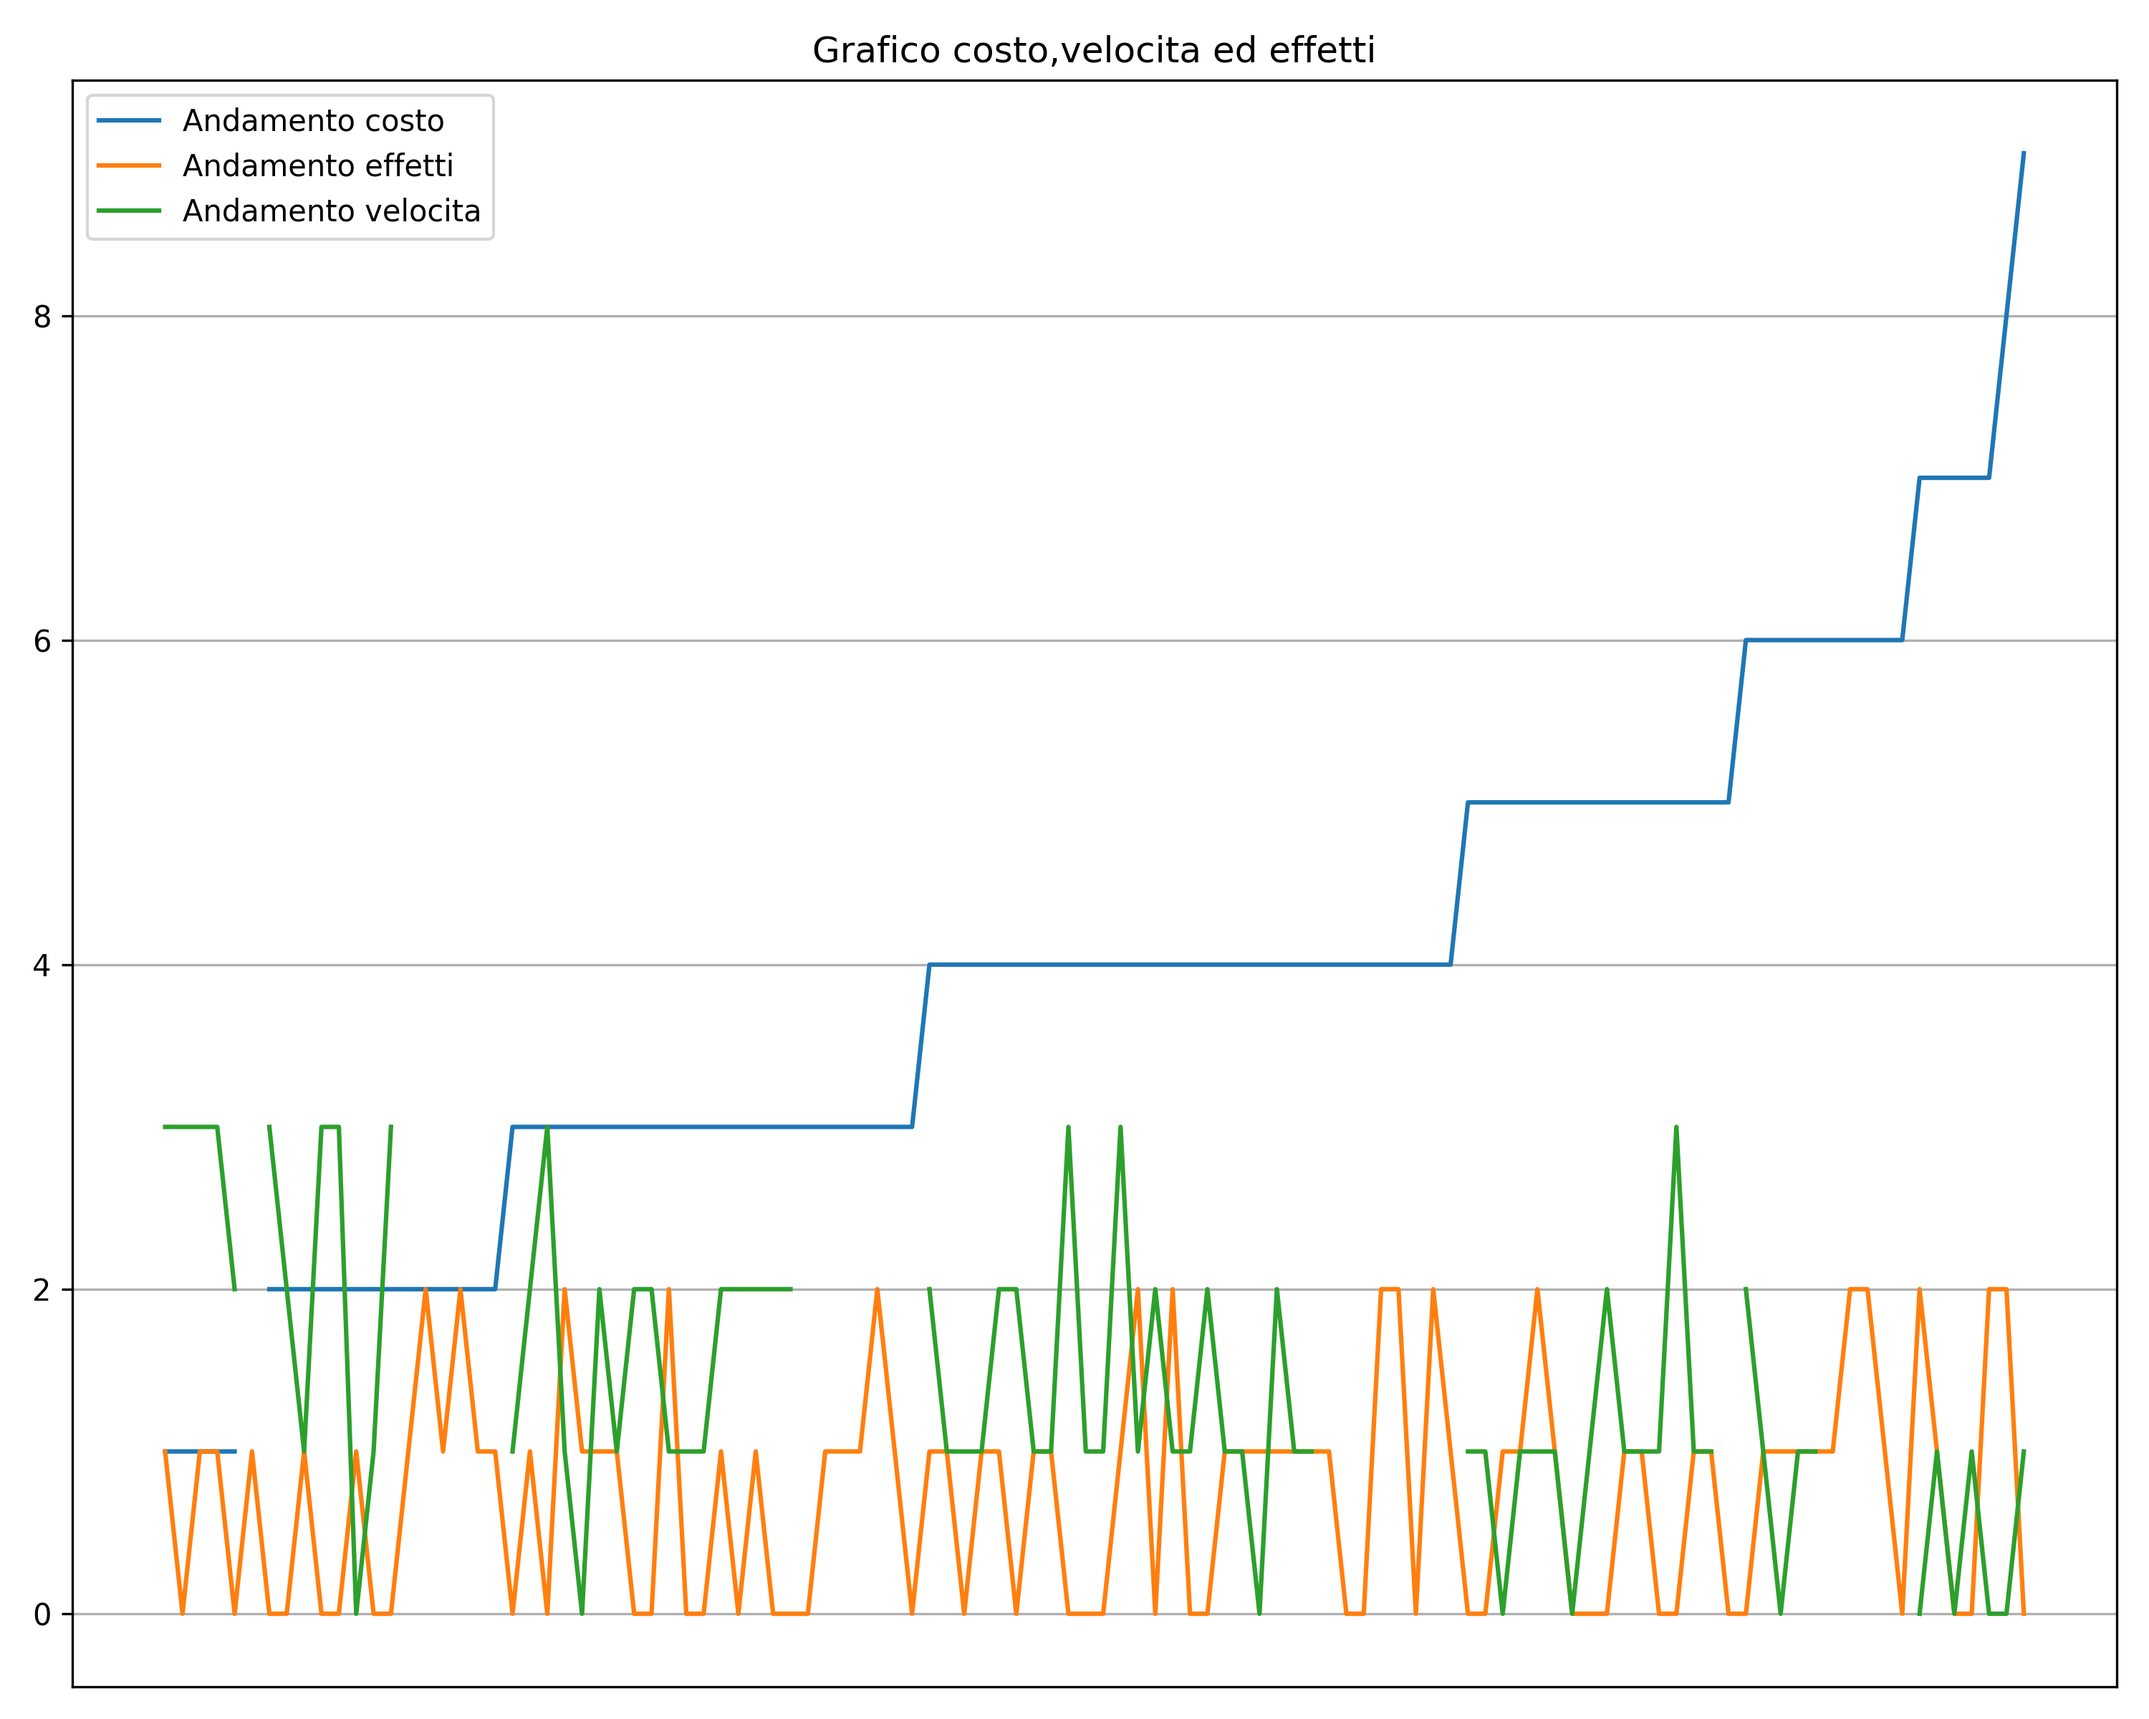
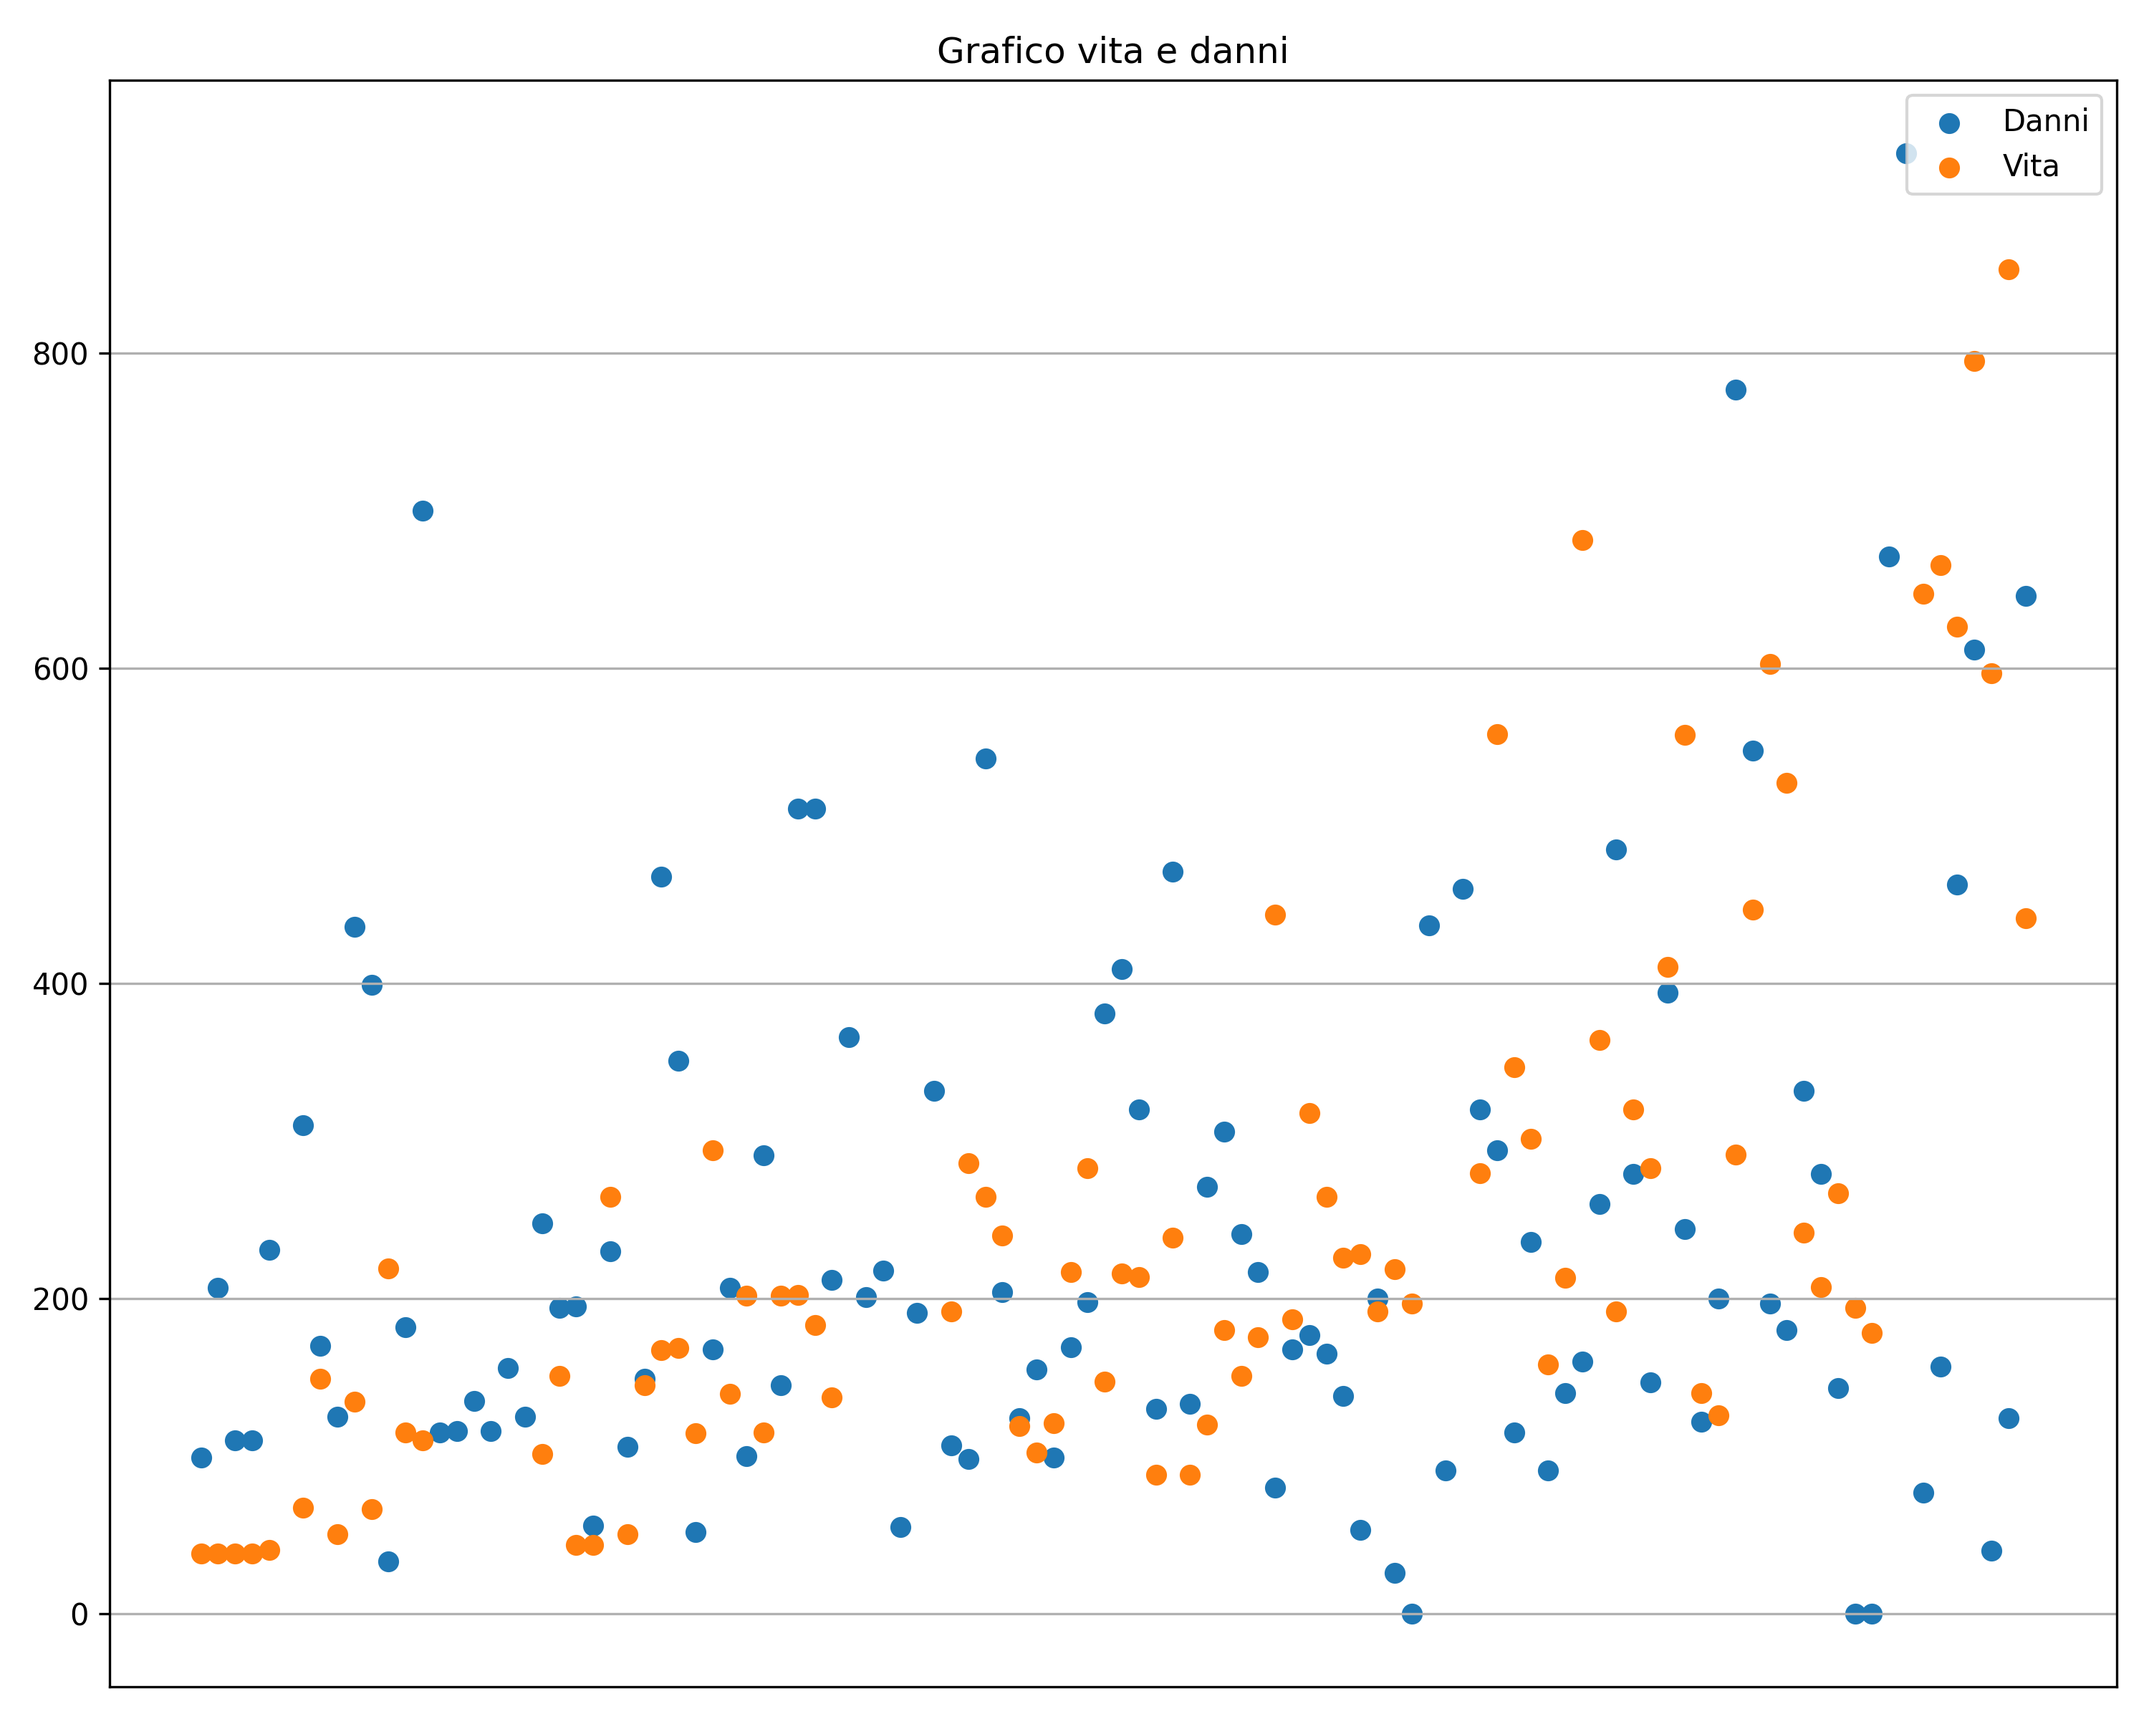
Cambiato un grafico

diff --git a/DeckBuilderCR/Grafici/CreaGrafico2.py b/DeckBuilderCR/Grafici/CreaGrafico2.py
@@ -5,26 +5,28 @@ import numpy as np
 f = pd.read_csv('../Dati/Carte.csv', sep=';')
 x = f[f.columns[0]]
 
-y_velocita = f[f.columns[6]]
-y_costo = f[f.columns[3]]
-y_effetti = f[f.columns[9]]
+y_danni = f[f.columns[1]]
+y_vita = f[f.columns[2]]
 
-#Calocolo valori medi
-y_media_danni = np.mean(f[f.columns[1]])
-y_media_vita = np.mean(f[f.columns[2]])
+
+for index in y_vita.index:
+    y_vita.loc[index] = y_vita.loc[index]/6
+
+#Calcolo medie
+y_media_danni = np.mean(y_danni)
+y_media_vita = np.mean(y_vita)
+print(y_media_vita)
+print(y_media_danni)
 
 plt.figure(figsize=(10,8))
 
-#plt.scatter(x,y_costo,label='Costo')
-plt.plot(x,y_costo,linestyle="-",label='Andamento costo')
+plt.scatter(x,y_danni,label='Danni')
+#plt.plot(x,y_danni,linestyle="-",label='Andamento danni')
 
-#plt.scatter(x,y_effetti,label='Effetti')
-plt.plot(x,y_effetti,linestyle="-",label='Andamento effetti')
+plt.scatter(x,y_vita,label='Vita')
+#plt.plot(x,y_vita,linestyle="-",label='Andamento vita')
 
-#plt.scatter(x,y_velocita,label='Velocita')
-plt.plot(x,y_velocita,linestyle="-",label='Andamento velocita')
-
-plt.title('Grafico costo,velocita ed effetti')
+plt.title('Grafico vita e danni')
 plt.grid(True)
 
 plt.gca().axes.get_xaxis().set_visible(False)
